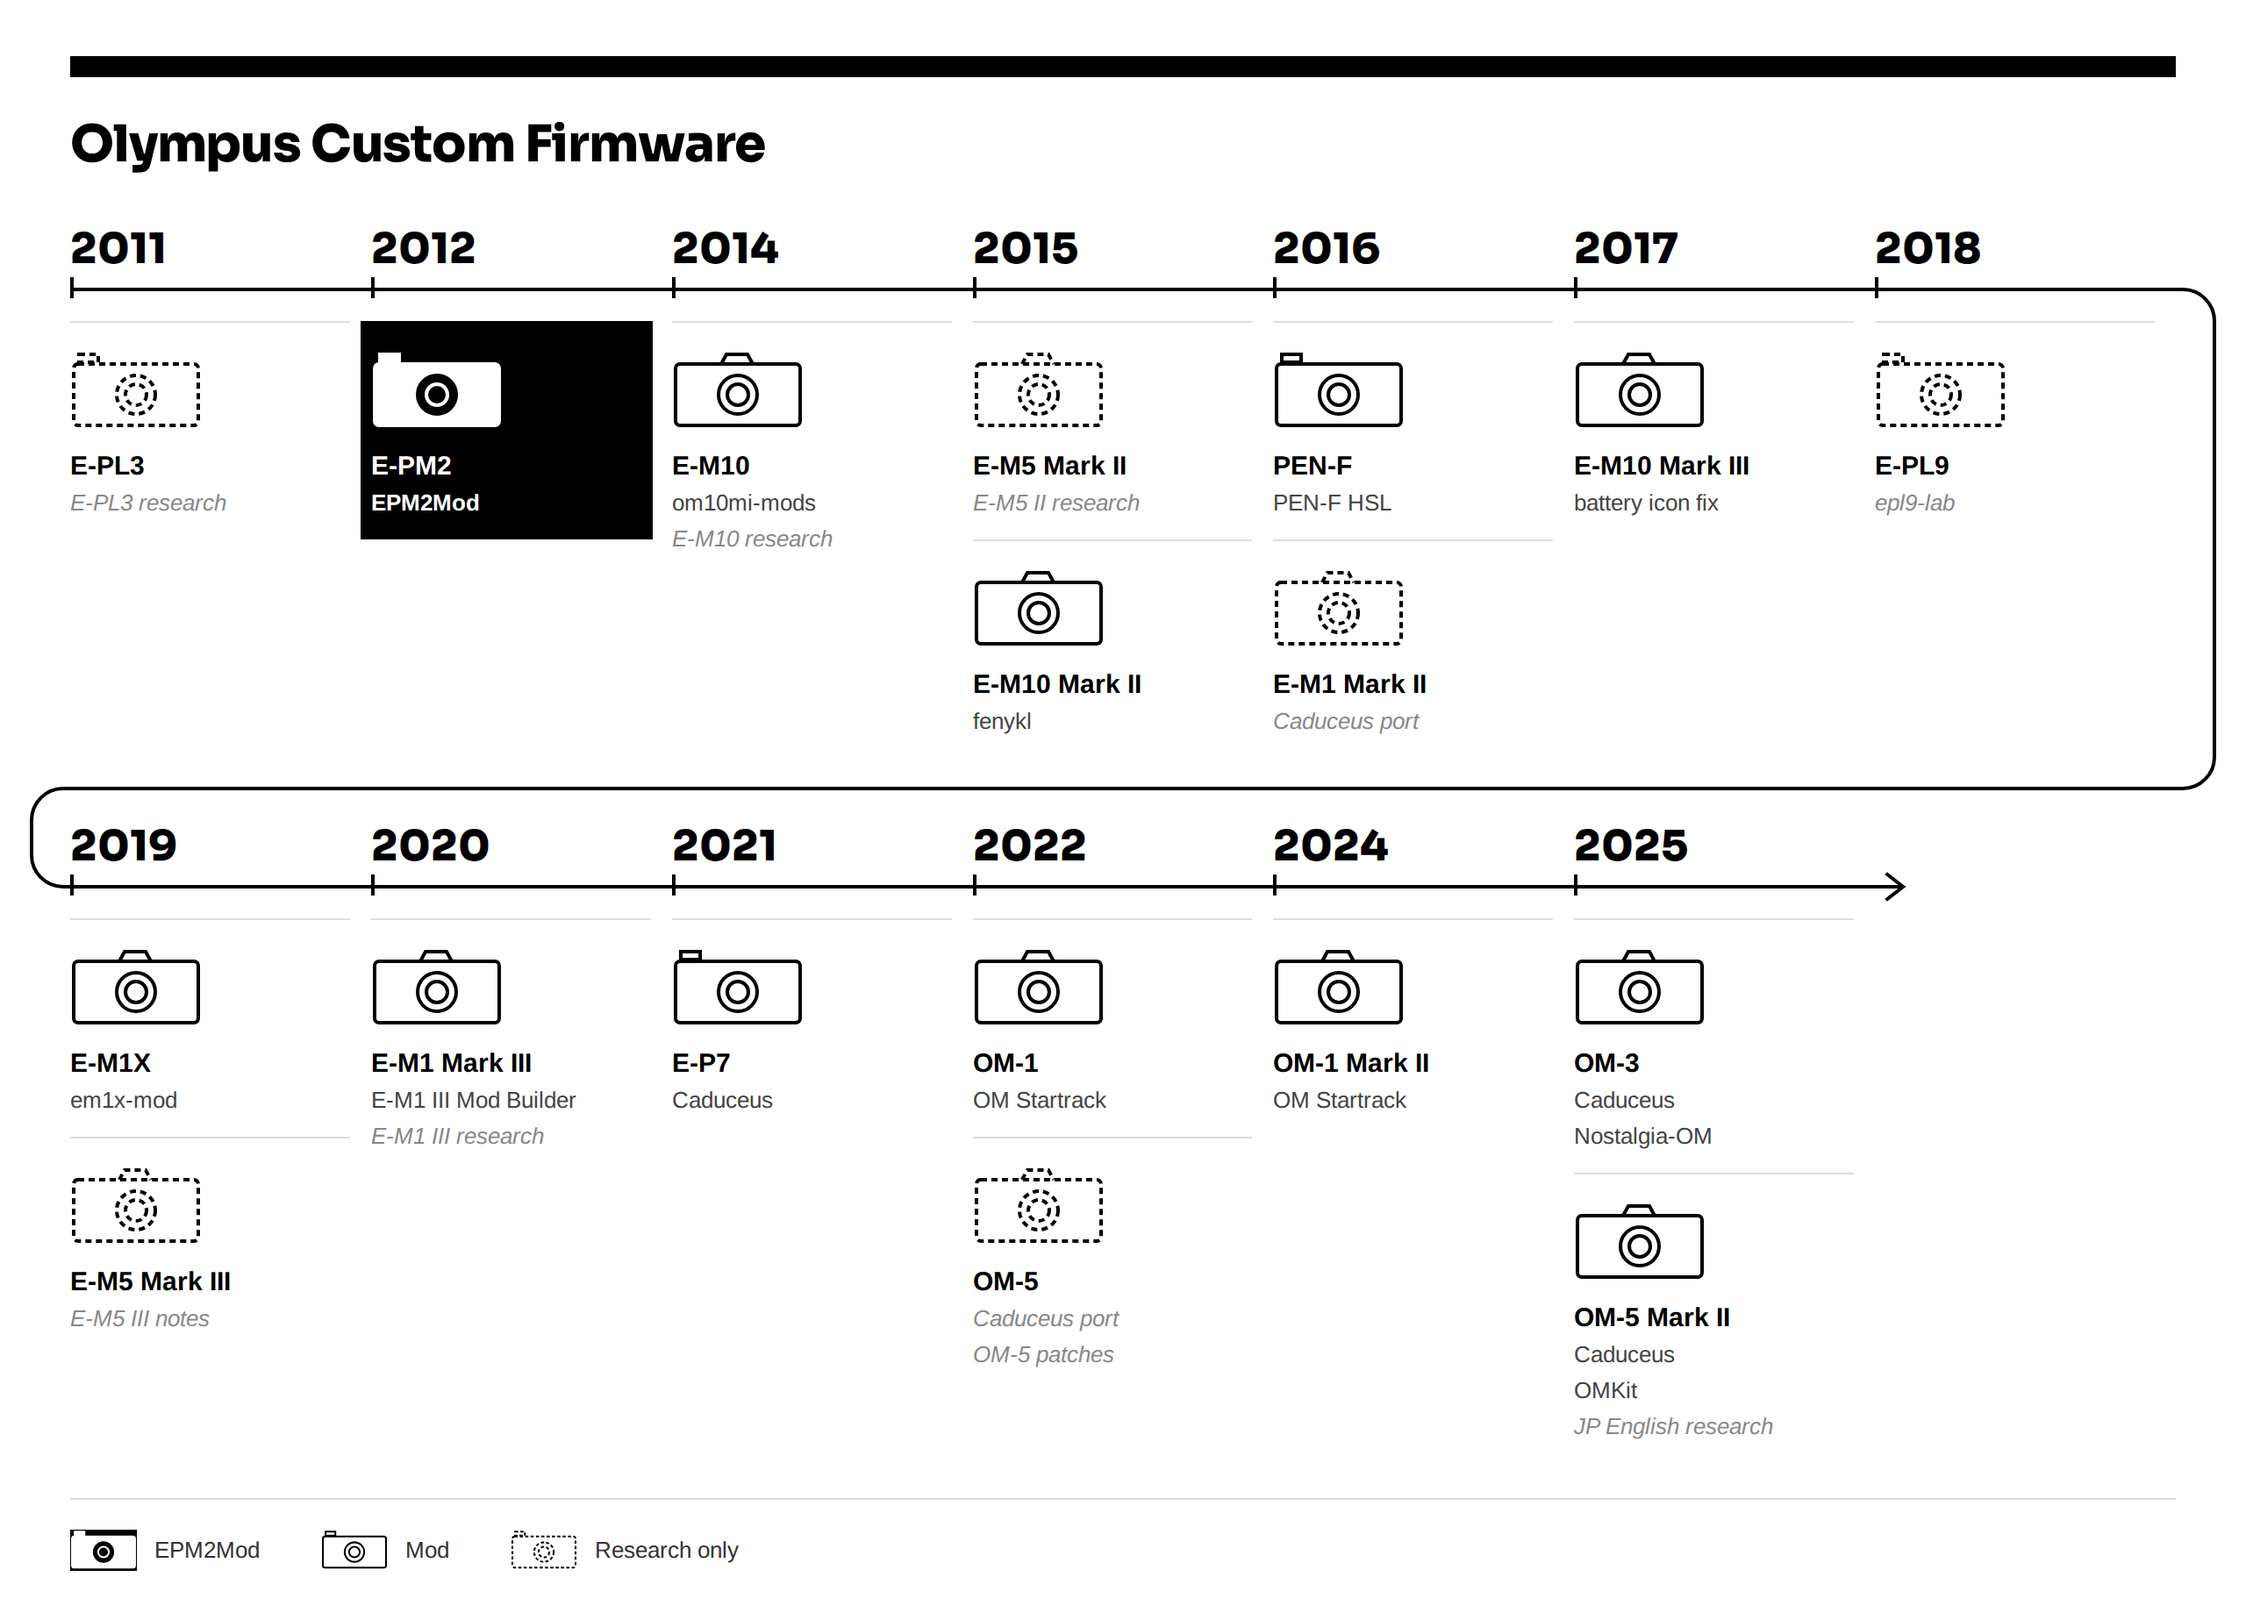
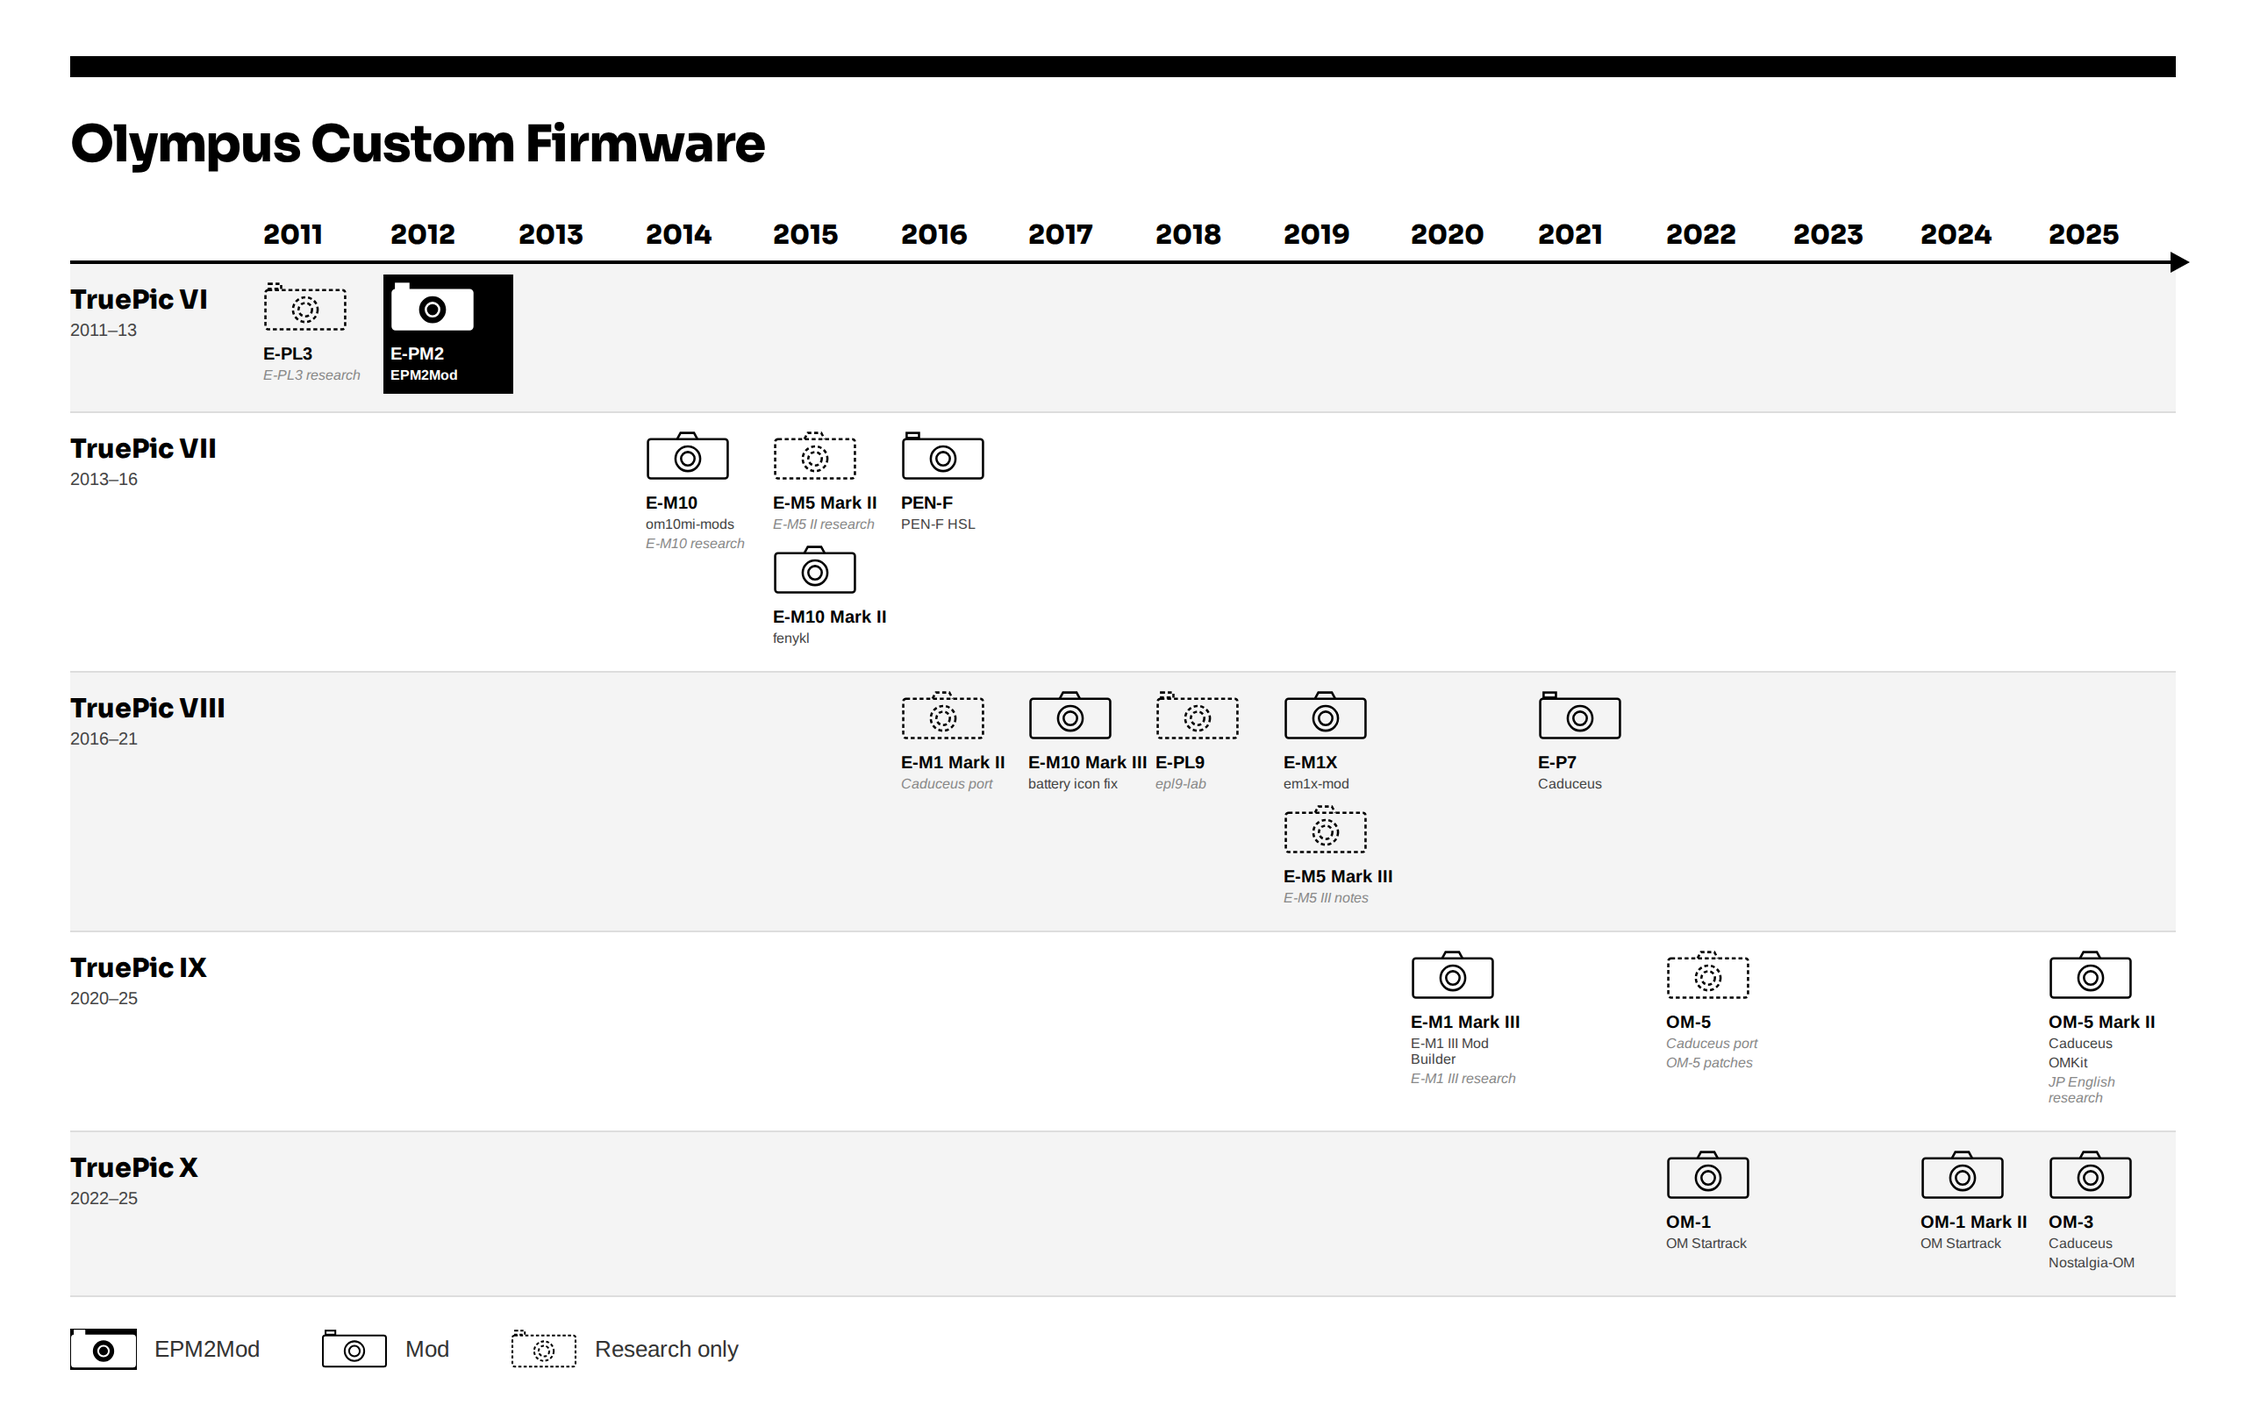
docs(landscape): the timeline has one lane per TruePic generation; drop the features image

diff --git a/docs/reference/landscape.md b/docs/reference/landscape.md
@@ -1,6 +1,6 @@
 # Olympus Custom Firmware
 
-![A timeline of Olympus and OM SYSTEM cameras that have custom firmware projects, from the E-PL3 in 2011 to the OM-5 Mark II in 2025](../images/landscape.png)
+![A timeline of Olympus and OM SYSTEM cameras that have custom firmware projects, one lane per TruePic generation, from the E-PL3 in 2011 to the OM-5 Mark II in 2025](../images/landscape.png)
 
 The list holds the Olympus custom firmware projects we know of on 2026-11-26: those on GitHub, in the [OM Firmware Atlas](https://xulfr.github.io/om-firmware-atlas/), in Caduceus's [list of ports](https://github.com/cakelesscoder/caduceus-ep7/blob/main/docs/BODIES.md) and in the 43rumors roundups of [2026-11-21](https://www.43rumors.com/new-mft-hacking-roundup-e-pm2-gains-focus-peaking-e-p7-gets-150mbps-4k-and-more-om-3-upgrades/) and [2026-11-26](https://www.43rumors.com/micro-four-thirds-hacking-update-new-film-controls-focus-stacking-and-more/).
 
@@ -36,7 +36,6 @@ missing part rules out (Not possible), and what no source settles yet (Unknown).
 status comes first. The [model matrix](model-matrix.md#2-features-by-generation)
 gives what each feature needs, the evidence and a link for each cell.
 
-![Features by generation: for each feature and TruePic generation, whether it is stock, added by a mod, not done, not possible or unknown](../images/features-by-generation.png)
 
 | Feature | VI (E-PM2) | VII | VIII | IX | X |
 |---|---|---|---|---|---|

diff --git a/README.md b/README.md
@@ -21,7 +21,7 @@ Repository containing the current work for creating a custom firmware mod for th
 
 The E-PM2 came out in 2012. The [landscape page](docs/reference/landscape.md) lists the other Olympus custom firmware projects we know of.
 
-[![A timeline of Olympus and OM SYSTEM cameras that have custom firmware projects, from the E-PL3 in 2011 to the OM-5 Mark II in 2025](docs/images/landscape.png)](docs/reference/landscape.md)
+[![A timeline of Olympus and OM SYSTEM cameras that have custom firmware projects, one lane per TruePic generation, from the E-PL3 in 2011 to the OM-5 Mark II in 2025](docs/images/landscape.png)](docs/reference/landscape.md)
 
 ## Install
 
